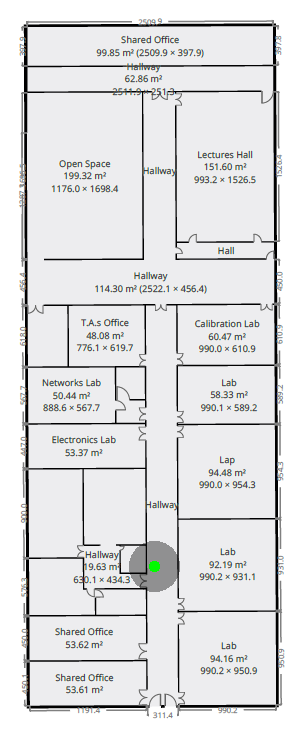
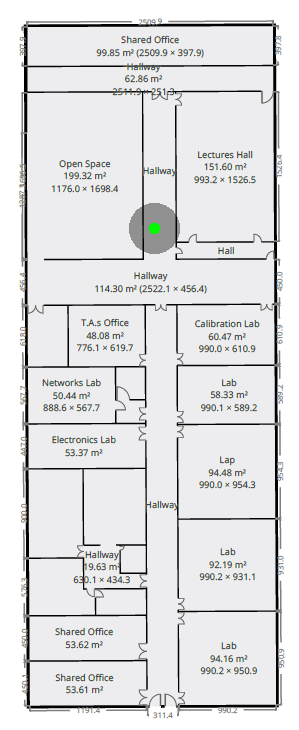
Fix Mapping

Changed region(s): [[0.4214, 0.7233, 0.602, 0.8137], [0.4214, 0.2712, 0.602, 0.3616]]

diff --git a/main.py b/main.py
@@ -55,7 +55,7 @@ class MainWindow(QMainWindow):
         # self.setFixedSize(self.pixmap.width(), self.pixmap.height()+10)
     
     def start_tracking(self):
-        self.idx +=1
+        self.idx +=1.2
         time.sleep(0.5)
         # Down Hallway starts at (1426,3054)
         data = get_data(self.firebase)
@@ -64,7 +64,7 @@ class MainWindow(QMainWindow):
         self.yCoordinates = get_coordinates(rss_list) # TO BE USED Later
         print(self.yCoordinates)
         #TODO map coordinates to scale
-        coords = mapCoordinates(1426,3054+30*self.idx,img)
+        coords = mapCoordinates(1426,5700-264*self.idx,img)
         drawCircle(img,5,coords,saved)
         pixmap = QPixmap('modified.png')
         self.label.setPixmap(pixmap)

diff --git a/draw.py b/draw.py
@@ -67,5 +67,5 @@ if __name__ == "__main__":
 
     # Down Hallway starts at (1426,3054)
 
-    coords = mapCoordinates(1426,3054,img)
-    drawCircle(img,5,coords,saved)
+    coords = mapCoordinates(1470,5700,img)
+    drawCircle(img,6,coords,saved)
